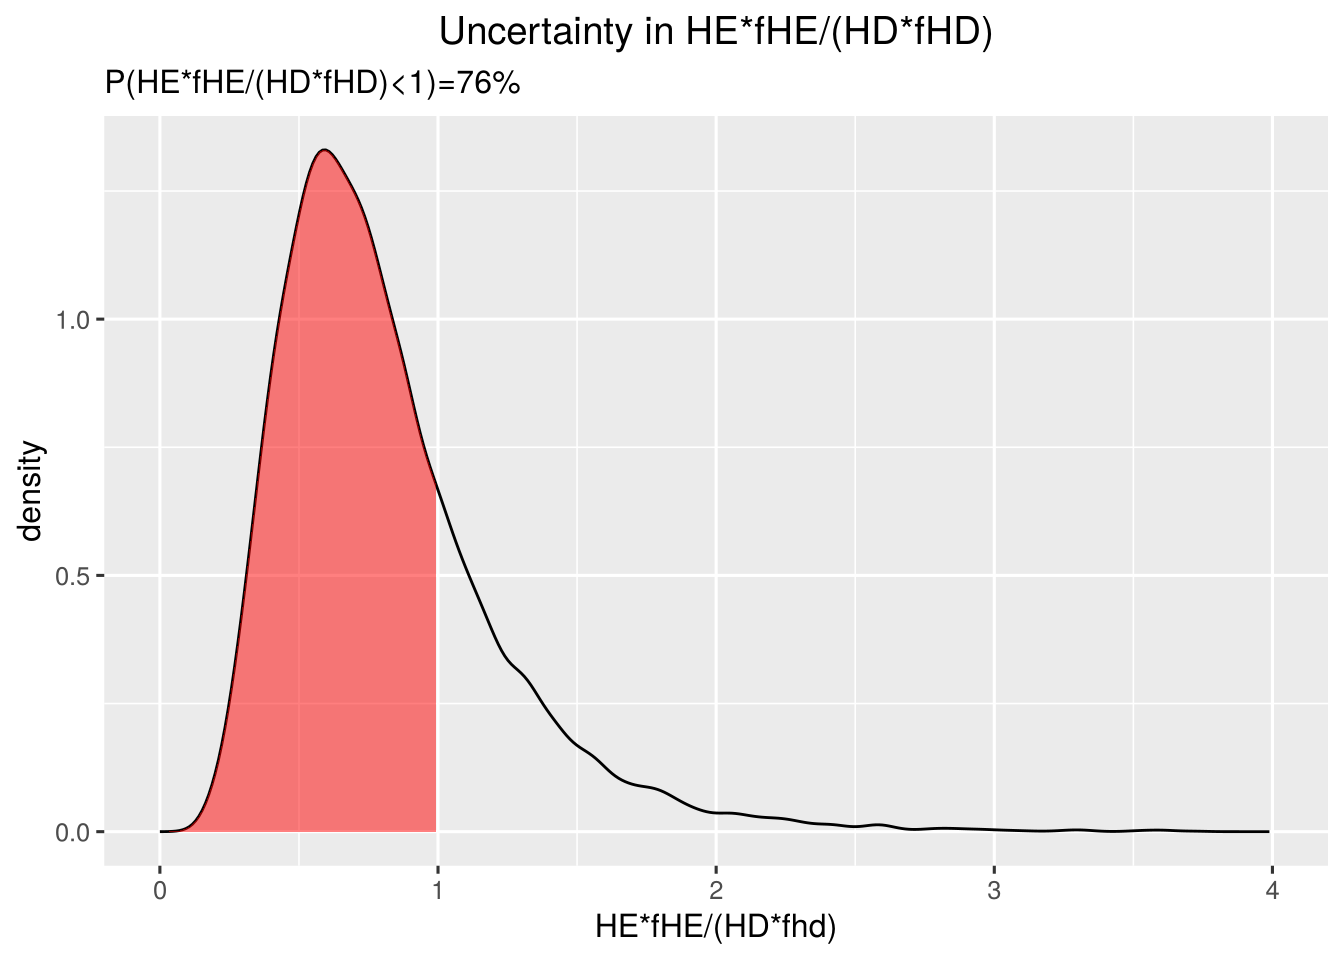
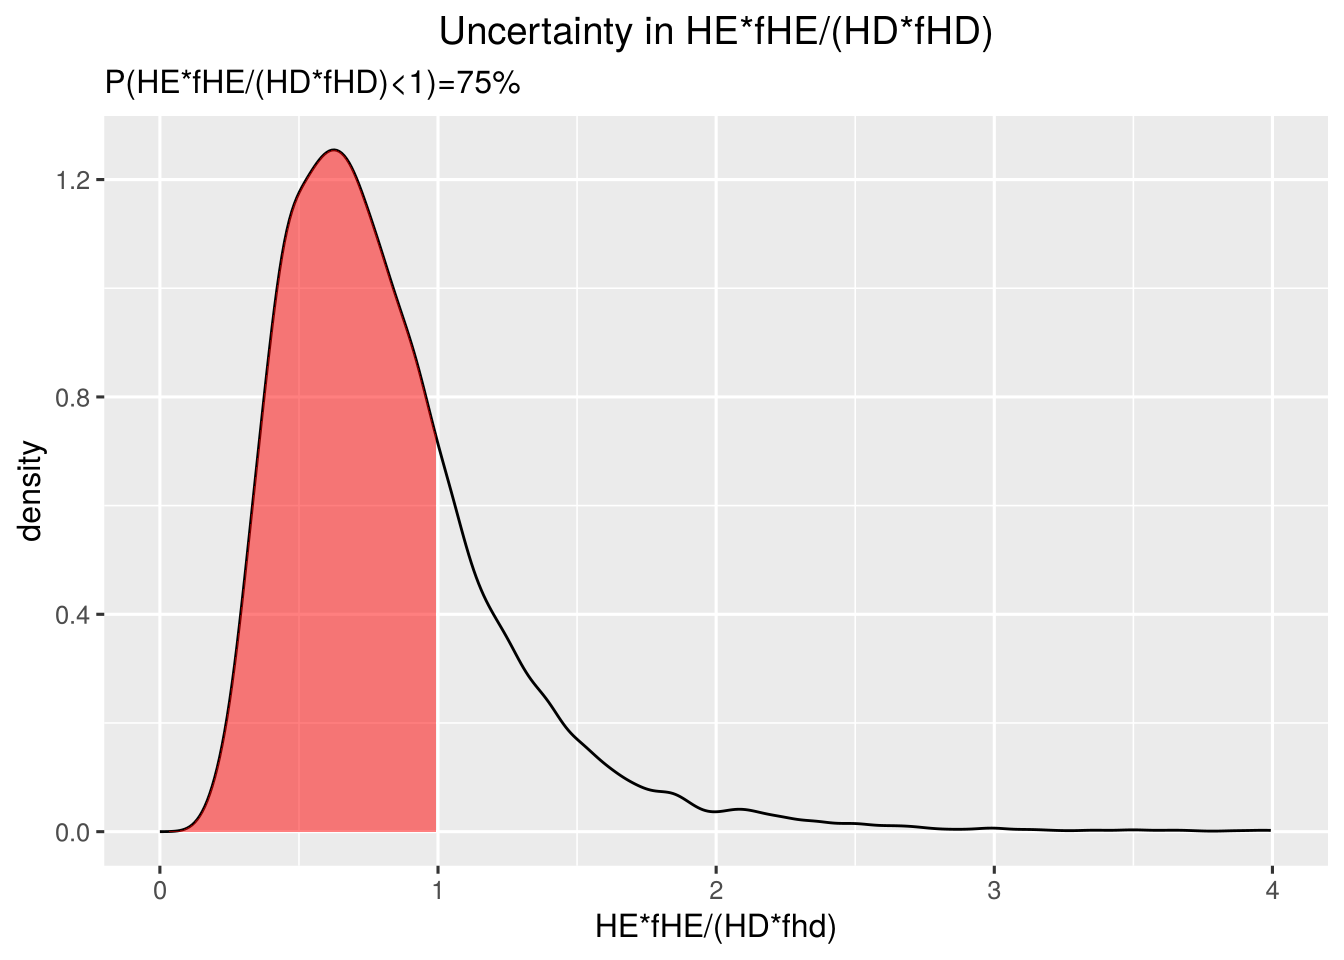
Tier 1 and 2 cleaned up

diff --git a/pages/risk_example.html b/pages/risk_example.html
@@ -690,7 +690,7 @@ Warning
 </div>
 </div>
 </div>
-<p>The calculated probability that the risk ratio is below 1 is <span class="math display">\[P(HE&lt;HD)=P(\frac{HE}{HD}&lt;1) = 94 \%\]</span></p>
+<p>The calculated probability that the risk ratio is below 1 is <span class="math display">\[P(HE&lt;HD)=P(\frac{HE}{HD}&lt;1) = 93 \%\]</span></p>
 <p>This value was derived by calculating the proportion of random samples in your Monte Carlo simulation that corresponds to a ratio &lt; 1.</p>
 </section>
 </section>
@@ -708,7 +708,7 @@ Warning
 </div>
 <p>In this visualisation, the red area corresponds to a High Exposure less than the Human Dose.</p>
 <p>Another way is to visualise the resulting distribution for uncertainty in the risk ratio by outcome that there is a health concern.</p>
-<p>The calculated probability that the risk ratio is above 1 is <span class="math display">\[P(HE&gt;HD)=P(\frac{HE}{HD}&gt;1) = 6 \%\]</span></p>
+<p>The calculated probability that the risk ratio is above 1 is <span class="math display">\[P(HE&gt;HD)=P(\frac{HE}{HD}&gt;1) = 7 \%\]</span></p>
 <div class="cell">
 <div class="cell-output-display">
 <div>
@@ -737,7 +737,7 @@ Warning
 </div>
 </div>
 </div>
-<p>Here the expert judge that their % certainty for no health concern is 76%.</p>
+<p>Here the expert judge that their % certainty for no health concern is 75%.</p>
 <div class="cell">
 <div class="cell-output-display">
 <div>
